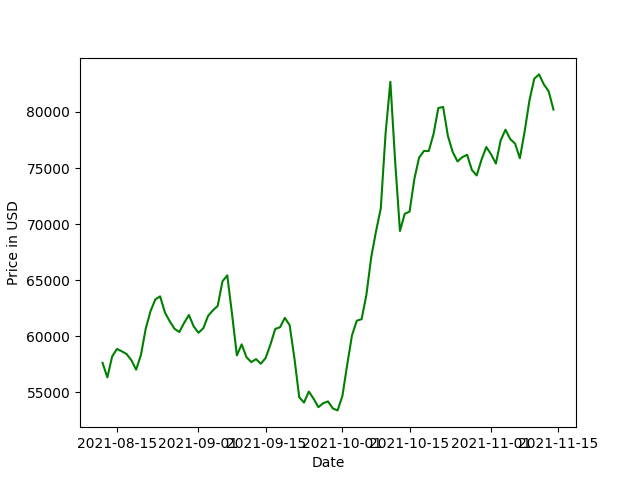
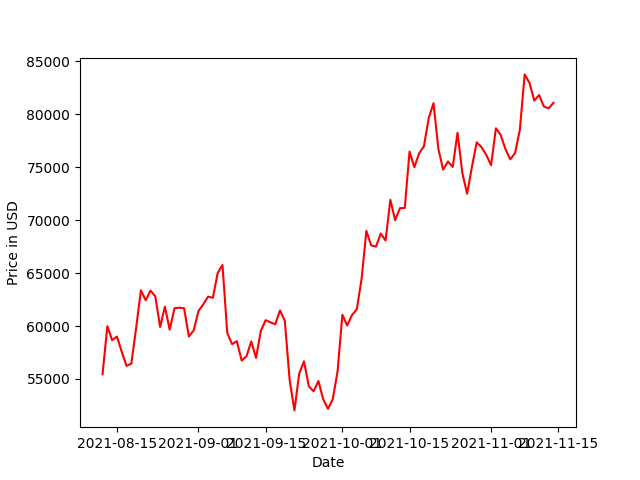
graph design

diff --git a/FrontEnd/templates/mining.html b/FrontEnd/templates/mining.html
@@ -15,7 +15,7 @@
             <div class="title">CryptoKnight</div>
             <div class="nav-options">
             <a class="nav-op" href="/home">Home</a>
-            <a class="nav-op" href="forecast">Forecast</a>
+            <a class="nav-op" href="http://localhost:5555/forecast/">Forecast</a>
             <a class="nav-op" href="">Start Mining!</a>
             <a class="nav-op" href="">About Us</a>
             <a class="nav-op" href="">Contact Us</a>

diff --git a/FrontEnd/app.py b/FrontEnd/app.py
@@ -14,8 +14,10 @@ from mine import mineit
 
 #print(len(preds))
 #print(len(temp))
+#print(preds)
 
-
+#print("targets=",targets)
+#print("preds=",preds)
 
 app = Flask(__name__)
 
@@ -35,7 +37,8 @@ def mining():
 def forecast():
     #plt.plot(preds,targets)
     #plt.scatter(preds,targets)
-    #plt.plot(preds, color = 'green', label = 'Predicted Bitcoin Price')
+    #plt.plot(preds, color = 'red', label = 'Predicted Bitcoin Price')
+    #plt.plot(targets, color = 'red', label = 'Predicted Cryptocurrency Price')
     #plt.ylabel('Price in USD')
     #plt.xlabel('Date')
     #plt.savefig('Data_X_Project/FrontEnd/static/my_plot.png')
